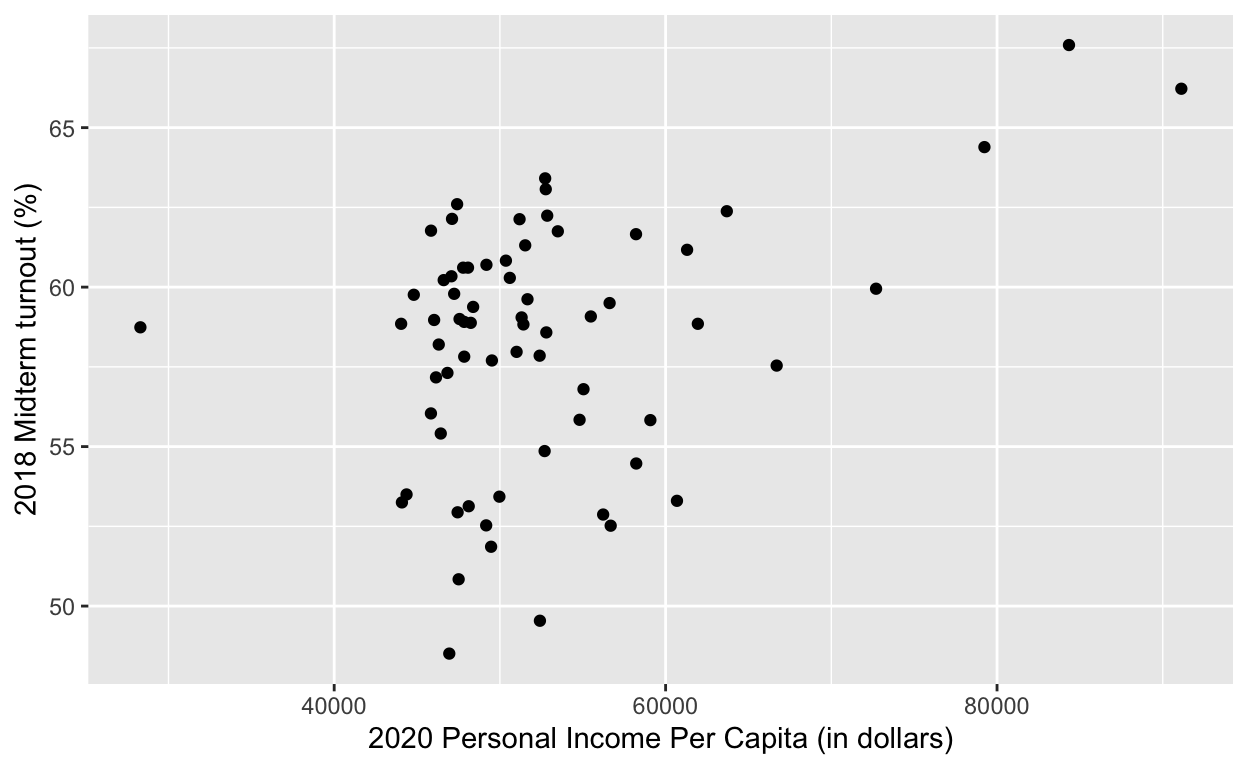
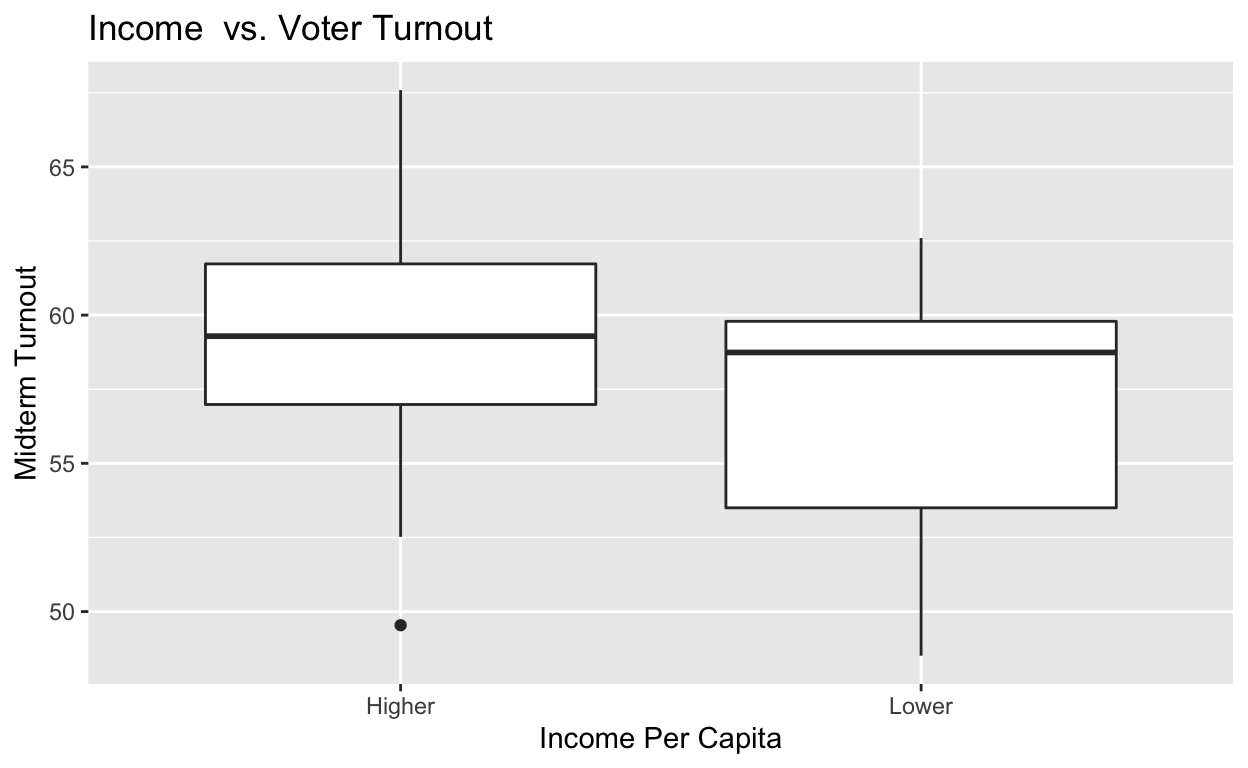
.

diff --git a/index.html b/index.html
@@ -115,7 +115,7 @@ code span.wa { color: #5e5e5e; font-style: italic; } /* Warning */
   <!--/radix_placeholder_rmarkdown_metadata-->
   
   <script type="text/json" id="radix-resource-manifest">
-  {"type":"character","attributes":{},"value":["index_files/anchor-4.2.2/anchor.min.js","index_files/bowser-1.9.3/bowser.min.js","index_files/distill-2.2.21/template.v2.js","index_files/figure-html5/unnamed-chunk-3-1.png","index_files/figure-html5/unnamed-chunk-3-2.png","index_files/header-attrs-2.16/header-attrs.js","index_files/header-attrs-2.17/header-attrs.js","index_files/jquery-3.6.0/jquery-3.6.0.js","index_files/jquery-3.6.0/jquery-3.6.0.min.js","index_files/jquery-3.6.0/jquery-3.6.0.min.map","index_files/popper-2.6.0/popper.min.js","index_files/tippy-6.2.7/tippy-bundle.umd.min.js","index_files/tippy-6.2.7/tippy-light-border.css","index_files/tippy-6.2.7/tippy.css","index_files/tippy-6.2.7/tippy.umd.min.js","index_files/webcomponents-2.0.0/webcomponents.js","PA Counties.csv"]}
+  {"type":"character","attributes":{},"value":["index_files/anchor-4.2.2/anchor.min.js","index_files/bowser-1.9.3/bowser.min.js","index_files/distill-2.2.21/template.v2.js","index_files/figure-html5/unnamed-chunk-3-1.png","index_files/figure-html5/unnamed-chunk-3-2.png","index_files/header-attrs-2.16/header-attrs.js","index_files/header-attrs-2.17/header-attrs.js","index_files/jquery-3.6.0/jquery-3.6.0.js","index_files/jquery-3.6.0/jquery-3.6.0.min.js","index_files/jquery-3.6.0/jquery-3.6.0.min.map","index_files/kePrint-0.0.1/kePrint.js","index_files/lightable-0.0.1/lightable.css","index_files/popper-2.6.0/popper.min.js","index_files/tippy-6.2.7/tippy-bundle.umd.min.js","index_files/tippy-6.2.7/tippy-light-border.css","index_files/tippy-6.2.7/tippy.css","index_files/tippy-6.2.7/tippy.umd.min.js","index_files/webcomponents-2.0.0/webcomponents.js","PA Counties.csv"]}
   </script>
   <!--radix_placeholder_navigation_in_header-->
   <!--/radix_placeholder_navigation_in_header-->
@@ -1519,10 +1519,10 @@ code span.wa { color: #5e5e5e; font-style: italic; } /* Warning */
 </div>
 
 <div class="d-article">
-<h2 id="project-thoughts">Project thoughts</h2>
-<p>In my final project, I am interested in investigating the variables that contribute to midterm voter turnout in all 67 counties in Pennsylvania. The two main variables that I will analyze is the relationship between income per capita on midterm turnout and the relationship between proportion of minorities on voter turnout. My hypothesis is that income will be more telling of voter turnout than proportion of minorities in a county.</p>
+<h2 id="project-thoughts-milestone-1">Project thoughts ~ Milestone 1</h2>
+<p>In my final project, I am interested in investigating the variables that contribute to midterm voter turnout in all 67 counties in Pennsylvania. The two main variables that I will analyze is the relationship between income per capita on midterm turnout and the relationship between proportion of minorities in a county on voter turnout. My hypothesis is that income will be more telling of voter turnout (%) than proportion of minorities in a county.</p>
 <p>##Milestone 2 explaining variables</p>
-Does income per capita of a county or the proportion of minorities living in that county have a greater effect on voter turnout in midterm elections? In this study, I plan to look at the relationship between these two variables and try to gather which one would be more telling of voter turnout. I hypothesize that the average income per capita will have a more significant effect on voter turnout than will the proportion of minorities that live within a county. Counties with higher income per capita, I predict will turnout much more than counties with lower income per capita. On the contrary, I predict counties with higher populations of minorities will turnout less than those with less populations of minorities, but to a lesser extent. My sample is all 67 Pennsylvania counties from 2018-2020. My unit of analysis is midterm election of 2018.My two explanatory variables are incomer per capita in each county (coded 1 if the county has an income per capita of over $50,000, and 0 if under $50,000). Counties with greater than $50,000 income per capita are considered in the higher income bracket in this experiment. This data was taken from the 2020 U.S. Census. My other explanatory variable is proportion of minorities in a county (coded 1 if proportion is greater than 6% minority population and 0 if under 6%). minority in this experiment is anyone that identifies with a race outside of white (i.e, African American, Asian, Hispanic, Native American). This data was also taken from the 2020 U.S. Census. My outcome variable is the voter turnout percentage for each Pennsylvania County during the 2018 midterm election cycles. These values were taken from WHYY Research through Keystone Crossroads. If I observe a stronger positive correlation between income and voter turnout than I do with proportion of minorities in a countty and voter turnout, this would support my hypothesis.
+<p>Does income per capita of a county or the proportion of minorities living in that county have a greater effect on voter turnout in midterm elections? In this study, I plan to look at the relationship between these two variables and try to gather which one would be more telling of voter turnout. I hypothesize that the average income per capita will have a more significant effect on voter turnout than will the proportion of minorities that live within a county. Counties with higher income per capita, I predict will turnout much more than counties with lower income per capita. On the contrary, I predict counties with higher populations of minorities will turnout less than those with less populations of minorities, but to a lesser extent. My sample is all 67 Pennsylvania counties from 2018-2020. My unit of analysis is the midterm election of 2018. My two explanatory variables are incomer per capita in each county (coded 1 if the county has an income per capita of over $50,000, and 0 if under $50,000). Counties with greater than $50,000 income per capita are considered in the higher income bracket in this experiment. This data was taken from the 2020 U.S. Census. My other explanatory variable is the proportion of minorities in a county (coded 1 if the proportion is greater than 6% minority population and 0 if under 6%). Minority in this experiment is anyone that identifies with a race other than white (i.e, African American, Asian, Hispanic, Native American). This data was also taken from the 2020 U.S. Census. My outcome variable is the voter turnout percentage for each Pennsylvania County during the 2018 midterm election cycles. These values were taken from WHYY Research through Keystone Crossroads. If I observe a stronger positive correlation between income and voter turnout than I do with proportion of minorities in a county and voter turnout, this would support my hypothesis.</p>
 <div class="layout-chunk" data-layout="l-body">
 <div class="sourceCode">
 <pre class="sourceCode r"><code class="sourceCode r"><span><span class='kw'><a href='https://rdrr.io/r/base/library.html'>library</a></span><span class='op'>(</span><span class='va'><a href='https://tidyverse.tidyverse.org'>tidyverse</a></span><span class='op'>)</span></span>
@@ -1530,12 +1530,13 @@ Does income per capita of a county or the proportion of minorities living in tha
 <span><span class='kw'><a href='https://rdrr.io/r/base/library.html'>library</a></span><span class='op'>(</span><span class='va'><a href='https://github.com/tidymodels/infer'>infer</a></span><span class='op'>)</span></span></code></pre>
 </div>
 </div>
+<p>##Milestone 3</p>
 <div class="layout-chunk" data-layout="l-body">
 <div class="sourceCode">
 <pre class="sourceCode r"><code class="sourceCode r"><span><span class='va'>pennsylvania_counties</span> <span class='op'>&lt;-</span> <span class='fu'><a href='https://readr.tidyverse.org/reference/read_delim.html'>read_csv</a></span><span class='op'>(</span><span class='st'>"PA Counties.csv"</span><span class='op'>)</span> <span class='op'>|&gt;</span></span>
 <span>  <span class='fu'><a href='https://dplyr.tidyverse.org/reference/mutate.html'>mutate</a></span><span class='op'>(</span> prop_Minorities <span class='op'>=</span> <span class='op'>(</span><span class='va'>`Black or African American Alone`</span> <span class='op'>+</span> <span class='va'>`Asian Alone`</span> <span class='op'>+</span> <span class='va'>`American Indian and Alaska Native Alone`</span> <span class='op'>+</span> <span class='va'>`Some Other Race Alone`</span><span class='op'>)</span><span class='op'>/</span> <span class='va'>`Total Population of One Race`</span><span class='op'>)</span> <span class='op'>|&gt;</span></span>
-<span>  <span class='fu'><a href='https://dplyr.tidyverse.org/reference/mutate.html'>mutate</a></span><span class='op'>(</span>Higher_Income <span class='op'>=</span> <span class='fu'><a href='https://dplyr.tidyverse.org/reference/if_else.html'>if_else</a></span><span class='op'>(</span><span class='va'>`Higher Income`</span> <span class='op'>==</span> <span class='fl'>1</span>, <span class='st'>"Higher"</span>, <span class='st'>"Lower"</span><span class='op'>)</span>, </span>
-<span>         High_Minority <span class='op'>=</span> <span class='fu'><a href='https://dplyr.tidyverse.org/reference/if_else.html'>if_else</a></span><span class='op'>(</span><span class='va'>`Higher proportion minority`</span> <span class='op'>==</span> <span class='fl'>1</span>, <span class='st'>"High prop"</span>, <span class='st'>"Low prop"</span><span class='op'>)</span><span class='op'>)</span></span>
+<span>  <span class='fu'><a href='https://dplyr.tidyverse.org/reference/mutate.html'>mutate</a></span><span class='op'>(</span>Income_level <span class='op'>=</span> <span class='fu'><a href='https://dplyr.tidyverse.org/reference/if_else.html'>if_else</a></span><span class='op'>(</span><span class='va'>`Higher Income`</span> <span class='op'>==</span> <span class='fl'>1</span>, <span class='st'>"Higher"</span>, <span class='st'>"Lower"</span><span class='op'>)</span>, </span>
+<span>         Minority_level <span class='op'>=</span> <span class='fu'><a href='https://dplyr.tidyverse.org/reference/if_else.html'>if_else</a></span><span class='op'>(</span><span class='va'>`Higher proportion minority`</span> <span class='op'>==</span> <span class='fl'>1</span>, <span class='st'>"High prop"</span>, <span class='st'>"Low prop"</span><span class='op'>)</span><span class='op'>)</span></span>
 <span></span>
 <span><span class='va'>pennsylvania_counties</span></span></code></pre>
 </div>
@@ -1563,16 +1564,24 @@ Does income per capita of a county or the proportion of minorities living in tha
 <div class="layout-chunk" data-layout="l-body">
 <div class="sourceCode">
 <pre class="sourceCode r"><code class="sourceCode r"><span><span class='va'>pennsylvania_counties</span> <span class='op'>|&gt;</span></span>
-<span>  <span class='fu'><a href='https://ggplot2.tidyverse.org/reference/ggplot.html'>ggplot</a></span><span class='op'>(</span><span class='fu'><a href='https://ggplot2.tidyverse.org/reference/aes.html'>aes</a></span><span class='op'>(</span>x <span class='op'>=</span> <span class='va'>`2020 Personal Income Per Capita (in dollars)`</span>,</span>
-<span>             y <span class='op'>=</span> <span class='va'>`2018 Midterm turnout (%)`</span><span class='op'>)</span><span class='op'>)</span> <span class='op'>+</span></span>
-<span>  <span class='fu'><a href='https://ggplot2.tidyverse.org/reference/geom_point.html'>geom_point</a></span><span class='op'>(</span><span class='op'>)</span></span></code></pre>
+<span>  <span class='fu'><a href='https://ggplot2.tidyverse.org/reference/ggplot.html'>ggplot</a></span><span class='op'>(</span>data <span class='op'>=</span> <span class='va'>pennsylvania_counties</span>,</span>
+<span>         mapping <span class='op'>=</span> <span class='fu'><a href='https://ggplot2.tidyverse.org/reference/aes.html'>aes</a></span><span class='op'>(</span>x <span class='op'>=</span> <span class='va'>Income_level</span>,</span>
+<span>                       y <span class='op'>=</span><span class='va'>`2018 Midterm turnout (%)`</span><span class='op'>)</span><span class='op'>)</span> <span class='op'>+</span></span>
+<span>  <span class='fu'><a href='https://ggplot2.tidyverse.org/reference/geom_boxplot.html'>geom_boxplot</a></span><span class='op'>(</span><span class='op'>)</span> <span class='op'>+</span></span>
+<span>  <span class='fu'><a href='https://ggplot2.tidyverse.org/reference/labs.html'>labs</a></span> <span class='op'>(</span>x <span class='op'>=</span> <span class='st'>"Income Per Capita"</span>,</span>
+<span>        y <span class='op'>=</span> <span class='st'>"Midterm Turnout"</span>,</span>
+<span>        title <span class='op'>=</span> <span class='st'>"Income  vs. Voter Turnout"</span><span class='op'>)</span></span></code></pre>
 </div>
 <img src="index_files/figure-html5/unnamed-chunk-3-1.png" width="624" />
 <div class="sourceCode">
 <pre class="sourceCode r"><code class="sourceCode r"><span><span class='va'>pennsylvania_counties</span> <span class='op'>|&gt;</span></span>
-<span>  <span class='fu'><a href='https://ggplot2.tidyverse.org/reference/ggplot.html'>ggplot</a></span><span class='op'>(</span><span class='fu'><a href='https://ggplot2.tidyverse.org/reference/aes.html'>aes</a></span><span class='op'>(</span>x <span class='op'>=</span> <span class='va'>prop_Minorities</span>,</span>
-<span>             y <span class='op'>=</span> <span class='va'>`2018 Midterm turnout (%)`</span><span class='op'>)</span><span class='op'>)</span> <span class='op'>+</span></span>
-<span>  <span class='fu'><a href='https://ggplot2.tidyverse.org/reference/geom_point.html'>geom_point</a></span><span class='op'>(</span><span class='op'>)</span></span></code></pre>
+<span>  <span class='fu'><a href='https://ggplot2.tidyverse.org/reference/ggplot.html'>ggplot</a></span><span class='op'>(</span>data <span class='op'>=</span> <span class='va'>pennsylvania_counties</span>,</span>
+<span>         mapping <span class='op'>=</span> <span class='fu'><a href='https://ggplot2.tidyverse.org/reference/aes.html'>aes</a></span><span class='op'>(</span>x <span class='op'>=</span> <span class='va'>Minority_level</span>,</span>
+<span>                       y <span class='op'>=</span><span class='va'>`2018 Midterm turnout (%)`</span><span class='op'>)</span><span class='op'>)</span> <span class='op'>+</span></span>
+<span>  <span class='fu'><a href='https://ggplot2.tidyverse.org/reference/geom_boxplot.html'>geom_boxplot</a></span><span class='op'>(</span><span class='op'>)</span> <span class='op'>+</span></span>
+<span>  <span class='fu'><a href='https://ggplot2.tidyverse.org/reference/labs.html'>labs</a></span> <span class='op'>(</span>x <span class='op'>=</span> <span class='st'>"Proportion of Minorities"</span>,</span>
+<span>        y <span class='op'>=</span> <span class='st'>"Midterm Turnout"</span>,</span>
+<span>        title <span class='op'>=</span> <span class='st'>"Proportion of Minorities  vs. Voter Turnout"</span><span class='op'>)</span></span></code></pre>
 </div>
 <p><img src="index_files/figure-html5/unnamed-chunk-3-2.png" width="624" /></p>
 </div>
@@ -1582,27 +1591,28 @@ Does income per capita of a county or the proportion of minorities living in tha
 </div>
 <pre><code>[1] FALSE</code></pre>
 </div>
+<p>Analysis of above visual: From the above visuals, we see that Higher income tends to result in higher turnout, whereas higher proportion of minorities tends to result in lower turnout.</p>
 <div class="layout-chunk" data-layout="l-body">
 <div class="sourceCode">
 <pre class="sourceCode r"><code class="sourceCode r"><span><span class='va'>income_ate</span> <span class='op'>&lt;-</span> <span class='va'>pennsylvania_counties</span> <span class='op'>|&gt;</span> </span>
-<span>  <span class='fu'><a href='https://infer.tidymodels.org/reference/specify.html'>specify</a></span><span class='op'>(</span><span class='va'>`2018 Midterm turnout (%)`</span> <span class='op'>~</span> <span class='va'>Higher_Income</span><span class='op'>)</span> <span class='op'>|&gt;</span></span>
+<span>  <span class='fu'><a href='https://infer.tidymodels.org/reference/specify.html'>specify</a></span><span class='op'>(</span><span class='va'>`2018 Midterm turnout (%)`</span> <span class='op'>~</span> <span class='va'>Income_level</span><span class='op'>)</span> <span class='op'>|&gt;</span></span>
 <span>  <span class='fu'><a href='https://infer.tidymodels.org/reference/calculate.html'>calculate</a></span><span class='op'>(</span>stat <span class='op'>=</span> <span class='st'>"diff in means"</span>, order <span class='op'>=</span> <span class='fu'><a href='https://rdrr.io/r/base/c.html'>c</a></span><span class='op'>(</span><span class='st'>"Higher"</span>, <span class='st'>"Lower"</span><span class='op'>)</span><span class='op'>)</span></span>
 <span><span class='va'>income_ate</span></span></code></pre>
 </div>
 <pre><code>Response: 2018 Midterm turnout (%) (numeric)
-Explanatory: Higher_Income (factor)
+Explanatory: Income_level (factor)
 # A tibble: 1 × 1
    stat
   &lt;dbl&gt;
 1  1.86</code></pre>
 <div class="sourceCode">
 <pre class="sourceCode r"><code class="sourceCode r"><span><span class='va'>minority_ate</span> <span class='op'>&lt;-</span> <span class='va'>pennsylvania_counties</span> <span class='op'>|&gt;</span></span>
-<span>  <span class='fu'><a href='https://infer.tidymodels.org/reference/specify.html'>specify</a></span><span class='op'>(</span><span class='va'>`2018 Midterm turnout (%)`</span> <span class='op'>~</span> <span class='va'>High_Minority</span><span class='op'>)</span> <span class='op'>|&gt;</span></span>
+<span>  <span class='fu'><a href='https://infer.tidymodels.org/reference/specify.html'>specify</a></span><span class='op'>(</span><span class='va'>`2018 Midterm turnout (%)`</span> <span class='op'>~</span> <span class='va'>Minority_level</span><span class='op'>)</span> <span class='op'>|&gt;</span></span>
 <span>  <span class='fu'><a href='https://infer.tidymodels.org/reference/calculate.html'>calculate</a></span><span class='op'>(</span>stat <span class='op'>=</span> <span class='st'>"diff in means"</span>, order <span class='op'>=</span> <span class='fu'><a href='https://rdrr.io/r/base/c.html'>c</a></span><span class='op'>(</span><span class='st'>"High prop"</span>, <span class='st'>"Low prop"</span><span class='op'>)</span><span class='op'>)</span></span>
 <span><span class='va'>minority_ate</span></span></code></pre>
 </div>
 <pre><code>Response: 2018 Midterm turnout (%) (numeric)
-Explanatory: High_Minority (factor)
+Explanatory: Minority_level (factor)
 # A tibble: 1 × 1
     stat
    &lt;dbl&gt;
@@ -1613,7 +1623,7 @@ Explanatory: High_Minority (factor)
 <pre class="sourceCode r"><code class="sourceCode r"><span><span class='fu'><a href='https://rdrr.io/r/base/Random.html'>set.seed</a></span><span class='op'>(</span><span class='fl'>02138</span><span class='op'>)</span></span>
 <span></span>
 <span><span class='va'>ate_income_boots</span> <span class='op'>&lt;-</span> <span class='va'>pennsylvania_counties</span> <span class='op'>|&gt;</span></span>
-<span>  <span class='fu'><a href='https://infer.tidymodels.org/reference/specify.html'>specify</a></span><span class='op'>(</span><span class='va'>`2018 Midterm turnout (%)`</span> <span class='op'>~</span> <span class='va'>Higher_Income</span><span class='op'>)</span> <span class='op'>|&gt;</span></span>
+<span>  <span class='fu'><a href='https://infer.tidymodels.org/reference/specify.html'>specify</a></span><span class='op'>(</span><span class='va'>`2018 Midterm turnout (%)`</span> <span class='op'>~</span> <span class='va'>Income_level</span><span class='op'>)</span> <span class='op'>|&gt;</span></span>
 <span>  <span class='fu'><a href='https://infer.tidymodels.org/reference/generate.html'>generate</a></span><span class='op'>(</span>reps <span class='op'>=</span> <span class='fl'>1000</span>, type <span class='op'>=</span> <span class='st'>"bootstrap"</span><span class='op'>)</span><span class='op'>|&gt;</span></span>
 <span>  <span class='fu'><a href='https://infer.tidymodels.org/reference/calculate.html'>calculate</a></span><span class='op'>(</span>stat <span class='op'>=</span> <span class='st'>"diff in means"</span>,</span>
 <span>            order <span class='op'>=</span> <span class='fu'><a href='https://rdrr.io/r/base/c.html'>c</a></span><span class='op'>(</span><span class='st'>"Higher"</span>, <span class='st'>"Lower"</span><span class='op'>)</span><span class='op'>)</span></span>
@@ -1627,7 +1637,7 @@ Explanatory: High_Minority (factor)
 1 -0.000234     3.59</code></pre>
 <div class="sourceCode">
 <pre class="sourceCode r"><code class="sourceCode r"><span><span class='va'>ate_minority_boots</span> <span class='op'>&lt;-</span> <span class='va'>pennsylvania_counties</span> <span class='op'>|&gt;</span></span>
-<span>  <span class='fu'><a href='https://infer.tidymodels.org/reference/specify.html'>specify</a></span><span class='op'>(</span><span class='va'>`2018 Midterm turnout (%)`</span> <span class='op'>~</span> <span class='va'>High_Minority</span><span class='op'>)</span><span class='op'>|&gt;</span></span>
+<span>  <span class='fu'><a href='https://infer.tidymodels.org/reference/specify.html'>specify</a></span><span class='op'>(</span><span class='va'>`2018 Midterm turnout (%)`</span> <span class='op'>~</span> <span class='va'>Minority_level</span><span class='op'>)</span><span class='op'>|&gt;</span></span>
 <span>  <span class='fu'><a href='https://infer.tidymodels.org/reference/generate.html'>generate</a></span><span class='op'>(</span>reps <span class='op'>=</span> <span class='fl'>1000</span>, type <span class='op'>=</span> <span class='st'>"bootstrap"</span><span class='op'>)</span><span class='op'>|&gt;</span></span>
 <span>  <span class='fu'><a href='https://infer.tidymodels.org/reference/calculate.html'>calculate</a></span><span class='op'>(</span>stat<span class='op'>=</span> <span class='st'>"diff in means"</span>,</span>
 <span>            order <span class='op'>=</span> <span class='fu'><a href='https://rdrr.io/r/base/c.html'>c</a></span><span class='op'>(</span><span class='st'>"High prop"</span>, <span class='st'>"Low prop"</span><span class='op'>)</span><span class='op'>)</span></span>
@@ -1642,17 +1652,19 @@ Explanatory: High_Minority (factor)
 </div>
 <div class="layout-chunk" data-layout="l-body">
 <div class="sourceCode">
-<pre class="sourceCode r"><code class="sourceCode r"><span><span class='va'>turnout_changes</span> <span class='op'>&lt;-</span> <span class='fu'><a href='https://rdrr.io/r/stats/lm.html'>lm</a></span><span class='op'>(</span><span class='va'>`2018 Midterm turnout (%)`</span> <span class='op'>~</span> <span class='va'>Higher_Income</span> <span class='op'>+</span> <span class='va'>High_Minority</span>, data <span class='op'>=</span> <span class='va'>pennsylvania_counties</span><span class='op'>)</span></span>
+<pre class="sourceCode r"><code class="sourceCode r"><span><span class='va'>turnout_changes</span> <span class='op'>&lt;-</span> <span class='fu'><a href='https://rdrr.io/r/stats/lm.html'>lm</a></span><span class='op'>(</span><span class='va'>`2018 Midterm turnout (%)`</span> <span class='op'>~</span> <span class='va'>Income_level</span> <span class='op'>+</span> <span class='va'>Minority_level</span>, data <span class='op'>=</span> <span class='va'>pennsylvania_counties</span><span class='op'>)</span></span>
 <span><span class='va'>turnout_changes</span>                 </span></code></pre>
 </div>
 <pre><code>
 Call:
-lm(formula = `2018 Midterm turnout (%)` ~ Higher_Income + High_Minority, 
+lm(formula = `2018 Midterm turnout (%)` ~ Income_level + Minority_level, 
     data = pennsylvania_counties)
 
 Coefficients:
-          (Intercept)     Higher_IncomeLower  High_MinorityLow prop  
-               58.525                 -2.424                  1.649  </code></pre>
+           (Intercept)       Income_levelLower  
+                58.525                  -2.424  
+Minority_levelLow prop  
+                 1.649  </code></pre>
 <div class="sourceCode">
 <pre class="sourceCode r"><code class="sourceCode r"><span><span class='fu'>modelsummary</span><span class='fu'>::</span><span class='fu'><a href='https://vincentarelbundock.github.io/modelsummary/reference/modelsummary.html'>modelsummary</a></span><span class='op'>(</span><span class='va'>turnout_changes</span>,</span>
 <span>                           statistic <span class='op'>=</span> <span class='fu'><a href='https://rdrr.io/r/base/c.html'>c</a></span><span class='op'>(</span><span class='st'>"s.e. = {std.error}"</span>,</span>
@@ -1694,7 +1706,7 @@ p = &lt;0.001
 </tr>
 <tr>
 <td style="text-align:left;">
-Higher_IncomeLower
+Income_levelLower
 </td>
 <td style="text-align:center;">
 −2.424
@@ -1716,7 +1728,7 @@ p = 0.016
 </tr>
 <tr>
 <td style="text-align:left;">
-High_MinorityLow prop
+Minority_levelLow prop
 </td>
 <td style="text-align:center;">
 1.649
@@ -1763,6 +1775,7 @@ R2 Adj.
 </tbody>
 </table>
 </div>
+<p>Regression Analysis:</p>
 <div class="sourceCode" id="cb8"><pre class="sourceCode r distill-force-highlighting-css"><code class="sourceCode r"></code></pre></div>
 <!--radix_placeholder_article_footer-->
 <!--/radix_placeholder_article_footer-->
